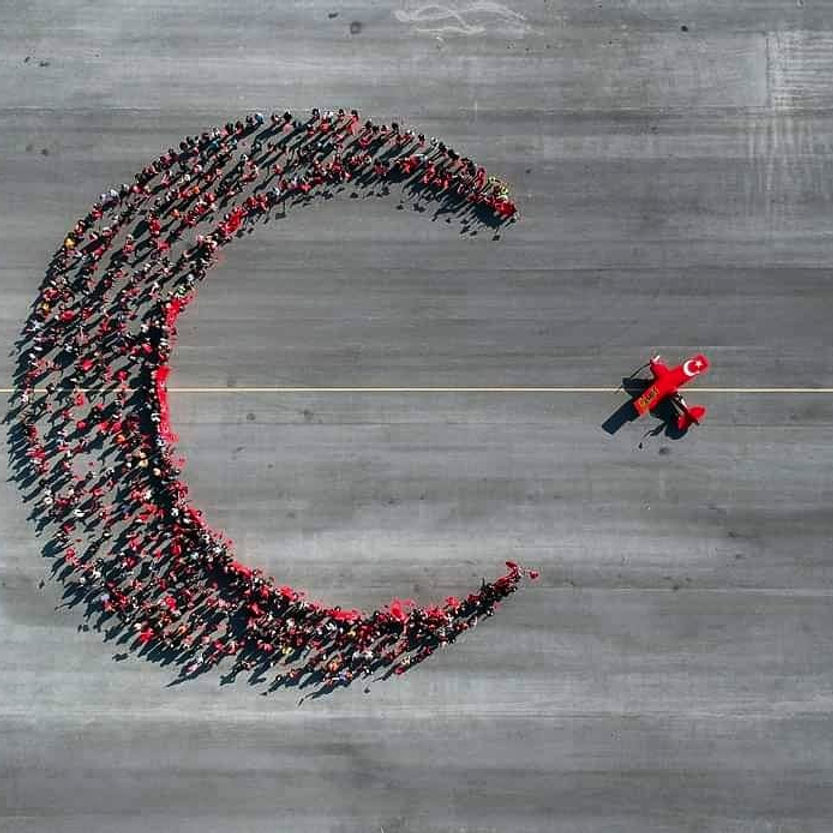
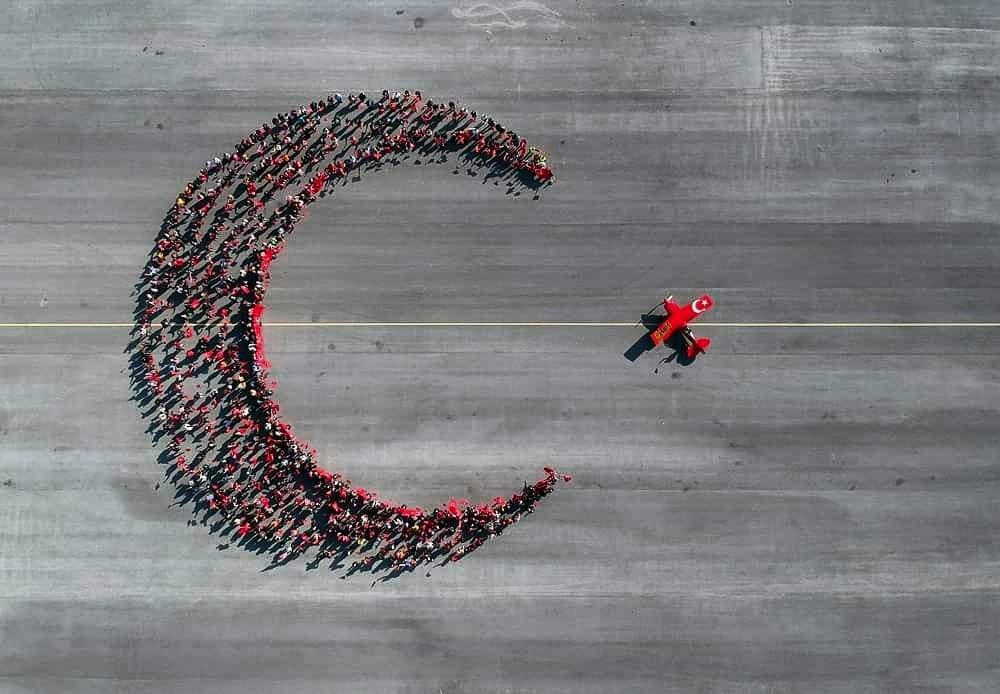
fix: show gallery and aircraft photos uncropped
- Replace square-cropped gallery files and the New Violet photo with
  the full originals from the old site
- Media gallery: justified rows (equal height per row, natural aspect)
  instead of square tiles with object-cover

diff --git a/components/Media.tsx b/components/Media.tsx
@@ -100,59 +100,54 @@ const PressClippings: React.FC = () => {
 
 // Fotoğraflar eski sitenin galerisinden: /public/images/galeri
 // Sitenin başka yerinde (Hakkında, Kariyer, Uçak) zaten kullanılan fotoğraflar burada tekrar edilmez.
-const galleryPhotos: { src: string; alt: Tx }[] = [
-  // Her grubun ilki büyük kare — yüksek çözünürlüklüler orada; küçük görseller küçük karelerde
-  { src: "/images/galeri/01-izmir-airshow.jpg", alt: { tr: "İzmir Körfezi'nde gösteri", en: "Air show over the Gulf of Izmir" } },
-  { src: "/images/galeri/02-cumhuriyet-fotografi.jpg", alt: { tr: "Cumhuriyet fotoğrafı — ay yıldız", en: "Republic Day photo — crescent and star" } },
-  { src: "/images/galeri/05-airact.jpg", alt: { tr: "AirACT logolu uçak", en: "Aircraft with the AirACT logo" } },
-  { src: "/images/galeri/06-seyirciler-arasinda.jpg", alt: { tr: "Semin seyirciler arasında", en: "Semin among the spectators" } },
-  { src: "/images/galeri/24-ters-ucus.jpg", alt: { tr: "Ters uçuşta", en: "Flying inverted" } },
-  { src: "/images/galeri/16-pistte-yansima.jpg", alt: { tr: "Semin ve uçağı ıslak pistte", en: "Semin and her aircraft on the wet runway" } },
-  { src: "/images/galeri/07-gosteri-alani.jpg", alt: { tr: "Gösteri alanında Yeni Menekşe", en: "The New Violet at the show grounds" } },
-  { src: "/images/galeri/08-tutima-academy-ilk-ucus.jpg", alt: { tr: "Tutima Academy'de ilk uçuş", en: "First flight at Tutima Academy" } },
-  { src: "/images/galeri/23-kokpitte.jpg", alt: { tr: "Kokpitte, dikey tırmanışta", en: "In the cockpit during a vertical climb" } },
-  { src: "/images/galeri/17-gokyuzunde-semin.jpg", alt: { tr: "Yeni Menekşe gökyüzünde", en: "The New Violet in the sky" } },
-  { src: "/images/galeri/09-ustten-gorunum.jpg", alt: { tr: "Semin'in uçağı üstten", en: "Semin's aircraft from above" } },
-  { src: "/images/galeri/10-piper-cub.jpg", alt: { tr: "Piper Cub uçağı", en: "Piper Cub aircraft" } },
-  { src: "/images/galeri/11-cekim.jpg", alt: { tr: "Reklam çekimi", en: "Commercial shoot" } },
-  { src: "/images/galeri/18-kanat-ve-duman.jpg", alt: { tr: "Kanattan duman izi", en: "Smoke trail seen from the wing" } },
-  { src: "/images/galeri/20-siyah-beyaz.jpg", alt: { tr: "Uçağıyla siyah beyaz portre", en: "Black-and-white portrait with her aircraft" } },
-  { src: "/images/galeri/19-kuyruktan-kokpit.jpg", alt: { tr: "Kuyruk kamerasından kokpit", en: "The cockpit seen from the tail camera" } },
-  { src: "/images/galeri/14-kanat-ustu.jpg", alt: { tr: "Kanat üstünden uçuş", en: "Flight seen from above the wing" } },
-  { src: "/images/galeri/21-boeing-stearman.jpg", alt: { tr: "Boeing Stearman pistte", en: "Boeing Stearman on the runway" } },
-  { src: "/images/galeri/22-tirmanis.jpg", alt: { tr: "Boeing Stearman gökyüzünde", en: "Boeing Stearman in flight" } },
-  { src: "/images/galeri/25-duman-izi.jpg", alt: { tr: "Duman iziyle tırmanış", en: "Climbing with a smoke trail" } },
+const galleryPhotos: { src: string; aspect: number; alt: Tx }[] = [
+  { src: "/images/galeri/01-izmir-airshow.jpg", aspect: 1198 / 960, alt: { tr: "İzmir Körfezi'nde gösteri", en: "Air show over the Gulf of Izmir" } },
+  { src: "/images/galeri/02-cumhuriyet-fotografi.jpg", aspect: 1000 / 694, alt: { tr: "Cumhuriyet fotoğrafı — ay yıldız", en: "Republic Day photo — crescent and star" } },
+  { src: "/images/galeri/05-airact.jpg", aspect: 1440 / 810, alt: { tr: "AirACT logolu uçak", en: "Aircraft with the AirACT logo" } },
+  { src: "/images/galeri/06-seyirciler-arasinda.jpg", aspect: 1600 / 645, alt: { tr: "Semin seyirciler arasında", en: "Semin among the spectators" } },
+  { src: "/images/galeri/24-ters-ucus.jpg", aspect: 1092 / 1162, alt: { tr: "Ters uçuşta", en: "Flying inverted" } },
+  { src: "/images/galeri/16-pistte-yansima.jpg", aspect: 1600 / 1066, alt: { tr: "Semin ve uçağı ıslak pistte", en: "Semin and her aircraft on the wet runway" } },
+  { src: "/images/galeri/07-gosteri-alani.jpg", aspect: 1600 / 1063, alt: { tr: "Gösteri alanında Yeni Menekşe", en: "The New Violet at the show grounds" } },
+  { src: "/images/galeri/08-tutima-academy-ilk-ucus.jpg", aspect: 968 / 1296, alt: { tr: "Tutima Academy'de ilk uçuş", en: "First flight at Tutima Academy" } },
+  { src: "/images/galeri/23-kokpitte.jpg", aspect: 279 / 399, alt: { tr: "Kokpitte, dikey tırmanışta", en: "In the cockpit during a vertical climb" } },
+  { src: "/images/galeri/17-gokyuzunde-semin.jpg", aspect: 1600 / 986, alt: { tr: "Yeni Menekşe gökyüzünde", en: "The New Violet in the sky" } },
+  { src: "/images/galeri/09-ustten-gorunum.jpg", aspect: 1440 / 1440, alt: { tr: "Semin'in uçağı üstten", en: "Semin's aircraft from above" } },
+  { src: "/images/galeri/10-piper-cub.jpg", aspect: 737 / 478, alt: { tr: "Piper Cub uçağı", en: "Piper Cub aircraft" } },
+  { src: "/images/galeri/11-cekim.jpg", aspect: 799 / 533, alt: { tr: "Reklam çekimi", en: "Commercial shoot" } },
+  { src: "/images/galeri/18-kanat-ve-duman.jpg", aspect: 950 / 532, alt: { tr: "Kanattan duman izi", en: "Smoke trail seen from the wing" } },
+  { src: "/images/galeri/20-siyah-beyaz.jpg", aspect: 720 / 529, alt: { tr: "Uçağıyla siyah beyaz portre", en: "Black-and-white portrait with her aircraft" } },
+  { src: "/images/galeri/19-kuyruktan-kokpit.jpg", aspect: 1600 / 795, alt: { tr: "Kuyruk kamerasından kokpit", en: "The cockpit seen from the tail camera" } },
+  { src: "/images/galeri/14-kanat-ustu.jpg", aspect: 1280 / 720, alt: { tr: "Kanat üstünden uçuş", en: "Flight seen from above the wing" } },
+  { src: "/images/galeri/21-boeing-stearman.jpg", aspect: 732 / 485, alt: { tr: "Boeing Stearman pistte", en: "Boeing Stearman on the runway" } },
+  { src: "/images/galeri/22-tirmanis.jpg", aspect: 758 / 505, alt: { tr: "Boeing Stearman gökyüzünde", en: "Boeing Stearman in flight" } },
+  { src: "/images/galeri/25-duman-izi.jpg", aspect: 486 / 376, alt: { tr: "Duman iziyle tırmanış", en: "Climbing with a smoke trail" } },
 ];
 
-// Mozaik: 5'li gruplar — her grupta 1 büyük + 4 küçük kare, büyük kare sırayla sol/sağ
-const PhotoMosaic: React.FC<{ photos: { src: string; alt: string }[] }> = ({ photos }) => {
+// Fotoğraflar kırpılmadan, kendi oranlarında: her satırdaki fotoğraflar aynı yükseklikte, satırı tam doldurur.
+// Yöntem: her öğenin hem flex-basis'i hem flex-grow'u oranıyla orantılı → satırda kalan boşluk
+// oranlara göre paylaşılır, böylece yükseklikler eşit kalır. Sondaki görünmez dolgu son satırı germez.
+type GalleryPhoto = { src: string; alt: string; aspect: number };
+const PhotoGrid: React.FC<{ photos: GalleryPhoto[] }> = ({ photos }) => {
   const t = useT();
   const { open, lightbox } = useLightbox(photos, { captions: false });
-  const groups: { src: string; alt: string; idx: number }[][] = [];
-  for (let i = 0; i < photos.length; i += 5) groups.push(photos.slice(i, i + 5).map((p, k) => ({ ...p, idx: i + k })));
-
   return (
     <>
-      <div className="space-y-3 md:space-y-4 mb-20">
-        {groups.map((g, gi) => (
-          <div key={gi} className="grid grid-cols-2 md:grid-cols-4 md:grid-flow-dense gap-3 md:gap-4">
-            {g.map((p, k) => (
-              <button
-                key={p.src}
-                onClick={() => open(p.idx)}
-                data-reveal-img
-                data-reveal-delay={String(k + 1)}
-                className={`group relative aspect-square overflow-hidden bg-white/5 ${
-                  k === 0 ? `col-span-2 row-span-2 ${gi % 2 ? "md:col-start-3" : ""}` : ""
-                }`}
-                aria-label={`${p.alt} — ${t("büyüt", "enlarge")}`}
-              >
-                <img src={p.src} alt={p.alt} loading="lazy" className="absolute inset-0 w-full h-full object-cover transition-transform duration-[1200ms] group-hover:scale-105" />
-                <span className="absolute inset-0 bg-black/0 group-hover:bg-black/20 transition-colors duration-300"></span>
-              </button>
-            ))}
-          </div>
+      <div className="flex flex-wrap gap-2 md:gap-3 mb-20 [--row:120px] sm:[--row:180px] md:[--row:240px]">
+        {photos.map((p, i) => (
+          <button
+            key={p.src}
+            onClick={() => open(i)}
+            data-reveal-img
+            data-reveal-delay={String((i % 4) + 1)}
+            style={{ flex: `${p.aspect} 1 calc(var(--row) * ${p.aspect})` }}
+            className="group relative overflow-hidden bg-white/5"
+            aria-label={`${p.alt} — ${t("büyüt", "enlarge")}`}
+          >
+            <img src={p.src} alt={p.alt} loading="lazy" className="block w-full h-auto transition-transform duration-[1200ms] group-hover:scale-105" />
+            <span className="absolute inset-0 bg-black/0 group-hover:bg-black/20 transition-colors duration-300"></span>
+          </button>
         ))}
+        <span aria-hidden="true" style={{ flex: "1000 1 0%" }}></span>
       </div>
       {lightbox}
     </>
@@ -259,7 +254,7 @@ const Media: React.FC = () => {
           <span className="text-[#E02F3C] text-xs font-black italic tracking-[0.3em] uppercase">{t("Fotoğraflar", "Photos")}</span>
           <span className="flex-1 h-px bg-white/10"></span>
         </div>
-        <PhotoMosaic photos={galleryPhotos.map((p) => ({ src: p.src, alt: pick(p.alt, lang) }))} />
+        <PhotoGrid photos={galleryPhotos.map((p) => ({ src: p.src, aspect: p.aspect, alt: pick(p.alt, lang) }))} />
 
       </div>
     </section>
